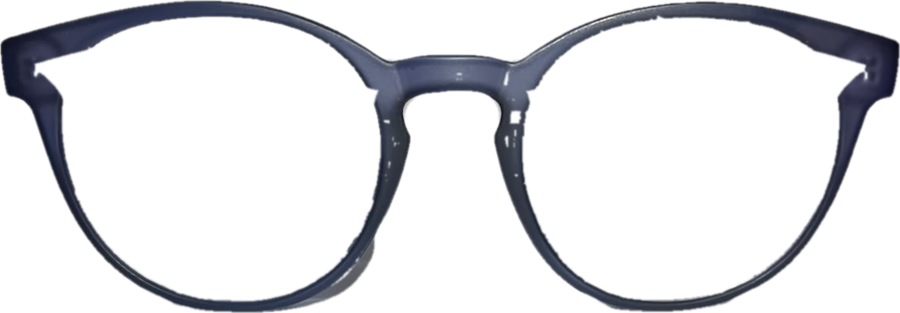
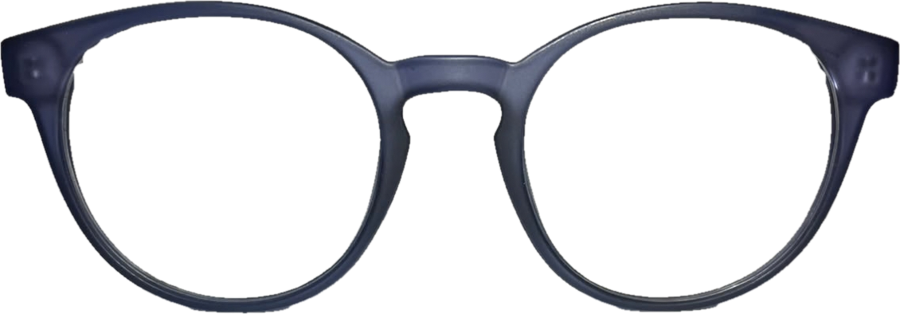
Add files via upload

diff --git a/js/compose.js b/js/compose.js
@@ -1,5 +1,5 @@
-// Foto final 9:16 (1080x1920): foto + armação + mascote + logo + textos da campanha
-const W=1080, H=1920;
+// Foto final 9:16 (1080x1920): frase, data, foto + armação + mascote, "Dom Visioon" ao centro e modelo
+const W=1080, H=1920, EMOJI="'Apple Color Emoji','Segoe UI Emoji','Noto Color Emoji'";
 const rr=(c,x,y,w,h,r)=>{ c.beginPath(); c.roundRect(x,y,w,h,r); };
 export async function composeFinal({ photo, mascot, logo, glasses }){
   try{ await Promise.all([document.fonts.load('900 80px Fraunces'), document.fonts.load('700 40px Figtree')]); }catch(e){}
@@ -8,22 +8,26 @@ export async function composeFinal({ photo, mascot, logo, glasses }){
   c.fillStyle=bg; c.fillRect(0,0,W,H);
   const gl=c.createRadialGradient(W/2,900,50,W/2,900,900); gl.addColorStop(0,'rgba(201,162,74,.22)'); gl.addColorStop(1,'rgba(201,162,74,0)');
   c.fillStyle=gl; c.fillRect(0,0,W,H);
-  // logo
-  const lh=190, lw=lh*logo.width/logo.height; c.drawImage(logo,(W-lw)/2,20,lw,lh);
-  // foto (recorte "cover" 3:4)
-  const px=60, py=230, pw=960, ph=1280;
+  c.textAlign='center';
+  // 1ª frase
+  c.fillStyle='#f6efe2'; c.font=`900 70px Fraunces, Georgia, serif, ${EMOJI}`; c.fillText('Eu escolhi meu óculos! 👓', W/2, 120);
+  // 2ª frase
+  c.fillStyle='#c9a24a'; c.font='700 46px Figtree, Arial, sans-serif'; c.fillText('Dia das Crianças 2026', W/2, 190);
+  // foto (recorte "cover")
+  const px=60, py=250, pw=960, ph=1190;
   c.save(); rr(c,px,py,pw,ph,56); c.clip();
   const s=Math.max(pw/photo.width, ph/photo.height), dw=photo.width*s, dh=photo.height*s;
   c.drawImage(photo, px+(pw-dw)/2, py+(ph-dh)/2, dw, dh); c.restore();
   c.lineWidth=8; c.strokeStyle='#c9a24a'; rr(c,px,py,pw,ph,56); c.stroke();
-  // mascote (canto inferior direito, fora do rosto)
-  const mh=520, mw=mh*mascot.width/mascot.height;
+  // mascote no canto inferior direito da foto
+  const mh=500, mw=mh*mascot.width/mascot.height;
   c.save(); c.shadowColor='rgba(0,0,0,.55)'; c.shadowBlur=30; c.shadowOffsetY=12;
-  c.drawImage(mascot, W-mw-40, py+ph-mh+250, mw, mh); c.restore();
-  // textos
-  c.textAlign='left'; c.fillStyle='#f6efe2'; c.font='900 76px Fraunces, Georgia, serif';
-  c.fillText('EU ESCOLHO', 70, 1620); c.fillText('A DOM VISIOON', 70, 1715);
-  c.fillStyle='#c9a24a'; c.font='700 44px Figtree, Arial, sans-serif'; c.fillText('Dia das Crianças 2026', 74, 1790);
-  if(glasses){ c.fillStyle='rgba(246,239,226,.6)'; c.font='600 30px Figtree, Arial, sans-serif'; c.fillText('Modelo '+glasses.id, 74, 1850); }
+  c.drawImage(mascot, px+pw-mw-20, py+ph-mh+40, mw, mh); c.restore();
+  // 3ª frase: centralizada
+  c.fillStyle='#f6efe2'; c.font='900 112px Fraunces, Georgia, serif'; c.fillText('Dom Visioon', W/2, 1640);
+  // 4ª frase: modelo
+  if(glasses){ c.fillStyle='rgba(246,239,226,.75)'; c.font='700 38px Figtree, Arial, sans-serif'; c.fillText('Modelo '+glasses.id, W/2, 1710); }
+  // logo
+  const lh=150, lw=lh*logo.width/logo.height; c.drawImage(logo,(W-lw)/2,1745,lw,lh);
   return await new Promise(r=>cv.toBlob(r,'image/png'));
 }

diff --git a/js/catalog.js b/js/catalog.js
@@ -3,15 +3,15 @@
 // fit = largura da armação relativa à largura do rosto (ajuste fino) | dy = deslocamento vertical.
 export const PRICE_PREFIX = 'a partir de ';
 export const glasses = [
-  { id:'DV01', name:'Armação 01', price:55, color:'Azul degradê',  image:'assets/frames/dv01.png?v=6', fit:1.0, dy:0 },
-  { id:'DV02', name:'Armação 02', price:55, color:'Lilás acinzentado',         image:'assets/frames/dv02.png?v=6', fit:1.0, dy:0 },
-  { id:'DV03', name:'Armação 03', price:55, color:'Coral',  image:'assets/frames/dv03.png?v=6', fit:1.0, dy:0 },
-  { id:'DV04', name:'Armação 04', price:55, color:'Rosa claro',    image:'assets/frames/dv04.png?v=6', fit:1.0, dy:0 },
-  { id:'DV05', name:'Armação 05', price:55, color:'Roxo',         image:'assets/frames/dv05.png?v=6', fit:1.0, dy:0 },
-  { id:'DV06', name:'Armação 06', price:55, color:'Preto e vermelho', image:'assets/frames/dv06.png?v=6', fit:1.0, dy:0 },
-  { id:'DV07', name:'Armação 07', price:55, color:'Preto',        image:'assets/frames/dv07.png?v=6', fit:1.0, dy:0 },
-  { id:'DV08', name:'Armação 08', price:55, color:'Azul fosco', image:'assets/frames/dv08.png?v=6', fit:1.0, dy:0 },
-  { id:'DV09', name:'Armação 09', price:55, color:'Verde-água', image:'assets/frames/dv09.png?v=6', fit:1.0, dy:0 },
+  { id:'DV01', name:'Armação 01', price:55, color:'Azul degradê',  image:'assets/frames/dv01.png?v=7', fit:1.0, dy:0 },
+  { id:'DV02', name:'Armação 02', price:55, color:'Lilás acinzentado',         image:'assets/frames/dv02.png?v=7', fit:1.0, dy:0 },
+  { id:'DV03', name:'Armação 03', price:55, color:'Coral',  image:'assets/frames/dv03.png?v=7', fit:1.0, dy:0 },
+  { id:'DV04', name:'Armação 04', price:55, color:'Rosa claro',    image:'assets/frames/dv04.png?v=7', fit:1.0, dy:0 },
+  { id:'DV05', name:'Armação 05', price:55, color:'Roxo',         image:'assets/frames/dv05.png?v=7', fit:1.0, dy:0 },
+  { id:'DV06', name:'Armação 06', price:55, color:'Preto', image:'assets/frames/dv06.png?v=7', fit:1.0, dy:0 },
+  { id:'DV07', name:'Armação 07', price:55, color:'Preto',        image:'assets/frames/dv07.png?v=7', fit:1.0, dy:0 },
+  { id:'DV08', name:'Armação 08', price:55, color:'Azul fosco', image:'assets/frames/dv08.png?v=7', fit:1.0, dy:0 },
+  { id:'DV09', name:'Armação 09', price:55, color:'Verde-água', image:'assets/frames/dv09.png?v=7', fit:1.0, dy:0 },
 ];
 export const WHATSAPP = '5524981072604';
 export const money = v => 'R$ ' + v.toLocaleString('pt-BR',{minimumFractionDigits:0});

diff --git a/index.html b/index.html
@@ -7,7 +7,7 @@
 <title>Qual óculos combina comigo? • Dom Visioon</title>
 <link rel="preconnect" href="https://fonts.googleapis.com"><link rel="preconnect" href="https://fonts.gstatic.com" crossorigin>
 <link href="https://fonts.googleapis.com/css2?family=Fraunces:opsz,wght@9..144,600;9..144,900&family=Figtree:wght@500;700;800&display=swap" rel="stylesheet">
-<link rel="stylesheet" href="css/style.css?v=6">
+<link rel="stylesheet" href="css/style.css?v=7">
 </head>
 <body>
 <!-- 1 ABERTURA -->
@@ -88,5 +88,5 @@
   </div>
   <p class="txt small">Dica: se a foto não salvar, toque e segure na imagem.</p>
 </section>
-<script type="module" src="js/app.js?v=6"></script>
+<script type="module" src="js/app.js?v=7"></script>
 </body></html>

diff --git a/js/app.js b/js/app.js
@@ -1,7 +1,7 @@
-import { glasses, PRICE_PREFIX, WHATSAPP, money } from './catalog.js?v=6';
-import { startCamera, stopCamera, cameraSupported } from './camera.js?v=6';
-import { loadTracker, detectVideo, detectImage, Smoother, drawGlasses } from './face.js?v=6';
-import { composeFinal } from './compose.js?v=6';
+import { glasses, PRICE_PREFIX, WHATSAPP, money } from './catalog.js?v=7';
+import { startCamera, stopCamera, cameraSupported } from './camera.js?v=7';
+import { loadTracker, detectVideo, detectImage, Smoother, drawGlasses } from './face.js?v=7';
+import { composeFinal } from './compose.js?v=7';
 
 const $ = s => document.querySelector(s);
 const cv = $('#cv'), ctx = cv.getContext('2d'), vid = $('#vid');
